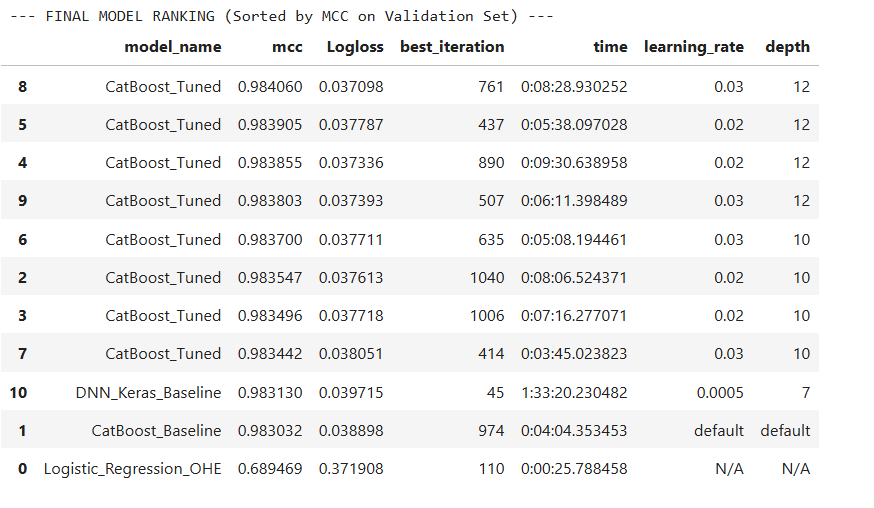
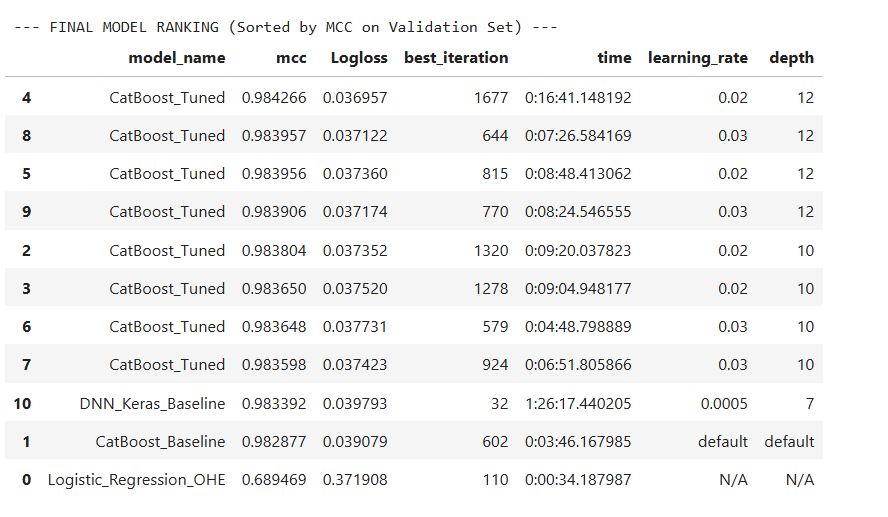
main readme file

diff --git a/Readme.md b/Readme.md
@@ -1,0 +1,48 @@
+# 🧠 Portfolio Overview
+This portfolio showcases two applied machine learning projects focused on classification and anomaly detection, combining regulatory awareness with technical precision.
+
+## 1. 🍄 Mushroom Edibility Classification (Kaggle: PS S4E8)
+A competition-grade pipeline for classifying mushrooms as edible or poisonous using 22 categorical features. The project compares Logistic Regression, a Tuned CatBoost classifier, and a Deep Neural Network (DNN), achieving:
+
+Accuracy: 0.98481
+
+Leaderboard Rank: 555 / 2422
+
+Tech stack: Python, CatBoost, Keras, Scikit-learn
+
+Highlights:
+
+Advanced preprocessing with One-Hot Encoding (107 features)
+
+Feature selection via Chi-Square Test
+
+Model comparison with MCC scoring
+
+Reproducible environment via Conda
+
+### 📁 kaggle_competitions/Binary_Prediction_of_Poisonous_Mushrooms/
+
+## 2. 📡 Telecom KPI Anomaly Detection (Isolation Forest)
+An unsupervised anomaly detection pipeline for synthetic telecom KPI time series (RTT and SR). The project includes data fabrication, contamination tuning, and visual validation.
+
+Model: Isolation Forest
+
+Detected anomalies:
+
+Success Rate: 685
+
+Round-Trip Time: 13
+
+Tech stack: Python, Scikit-learn, Pandas, Matplotlib
+
+Highlights:
+
+Synthetic KPI generation
+
+Visual anomaly tagging
+
+Contamination-level tuning
+
+Modular notebooks for fabrication and detection
+
+### 📁 telecom_KPI_anomaly_IForest_project/
